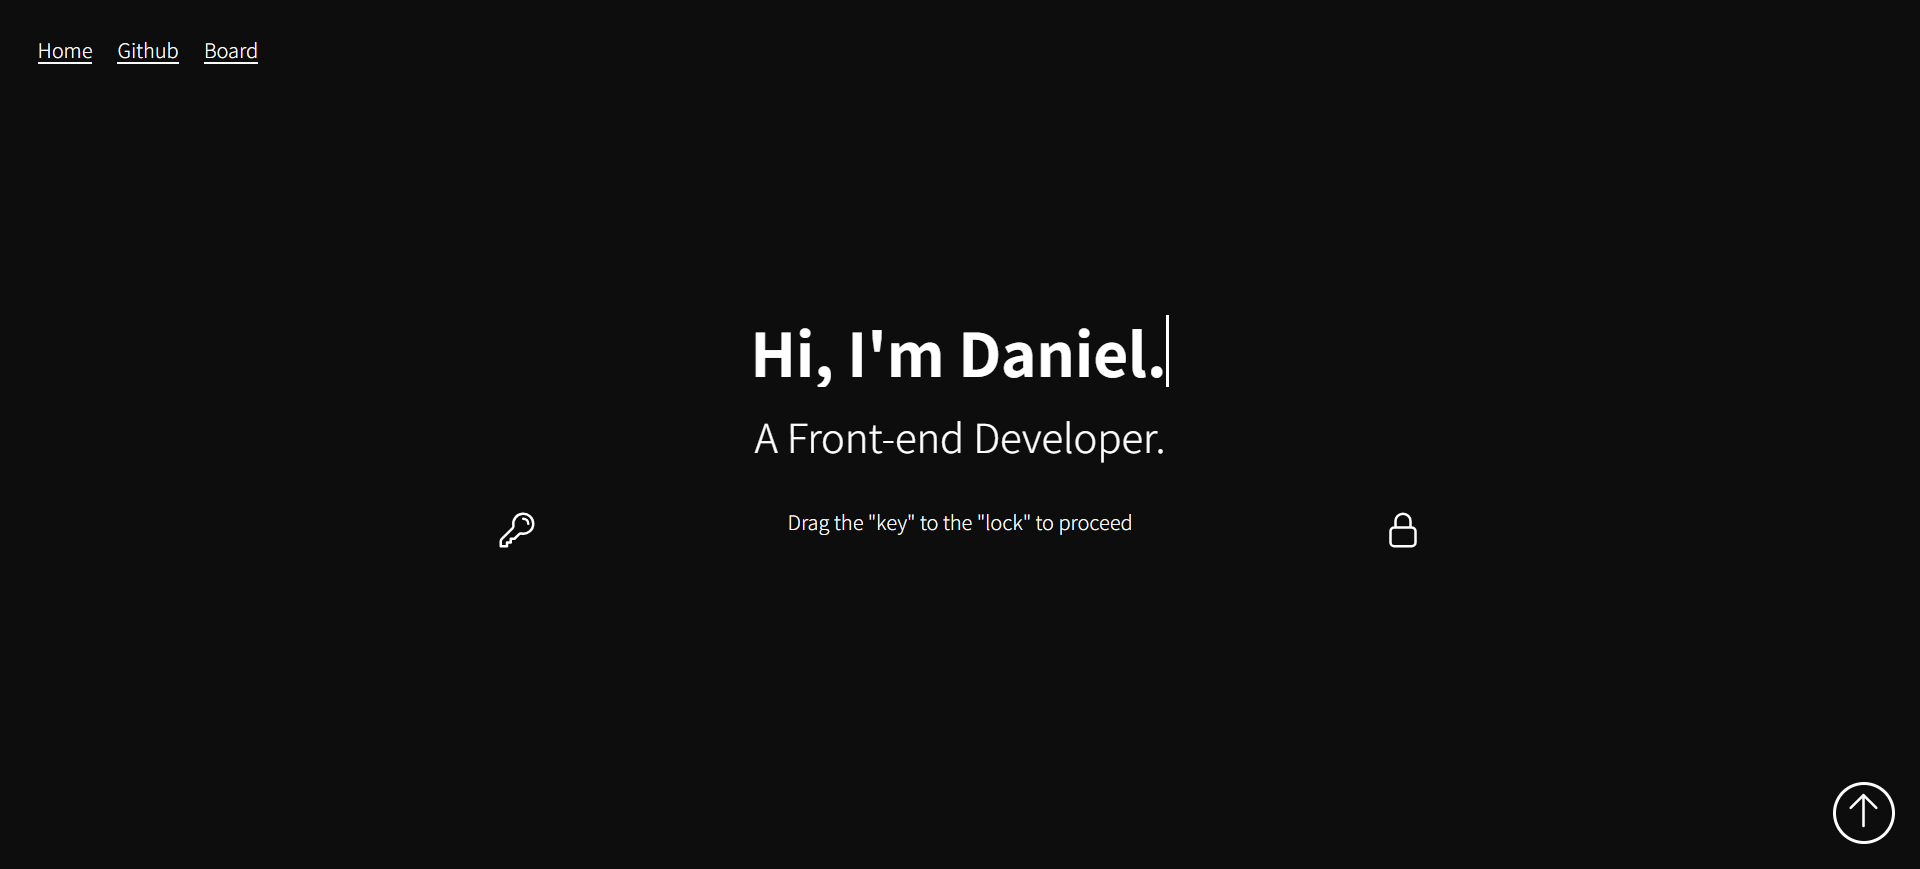
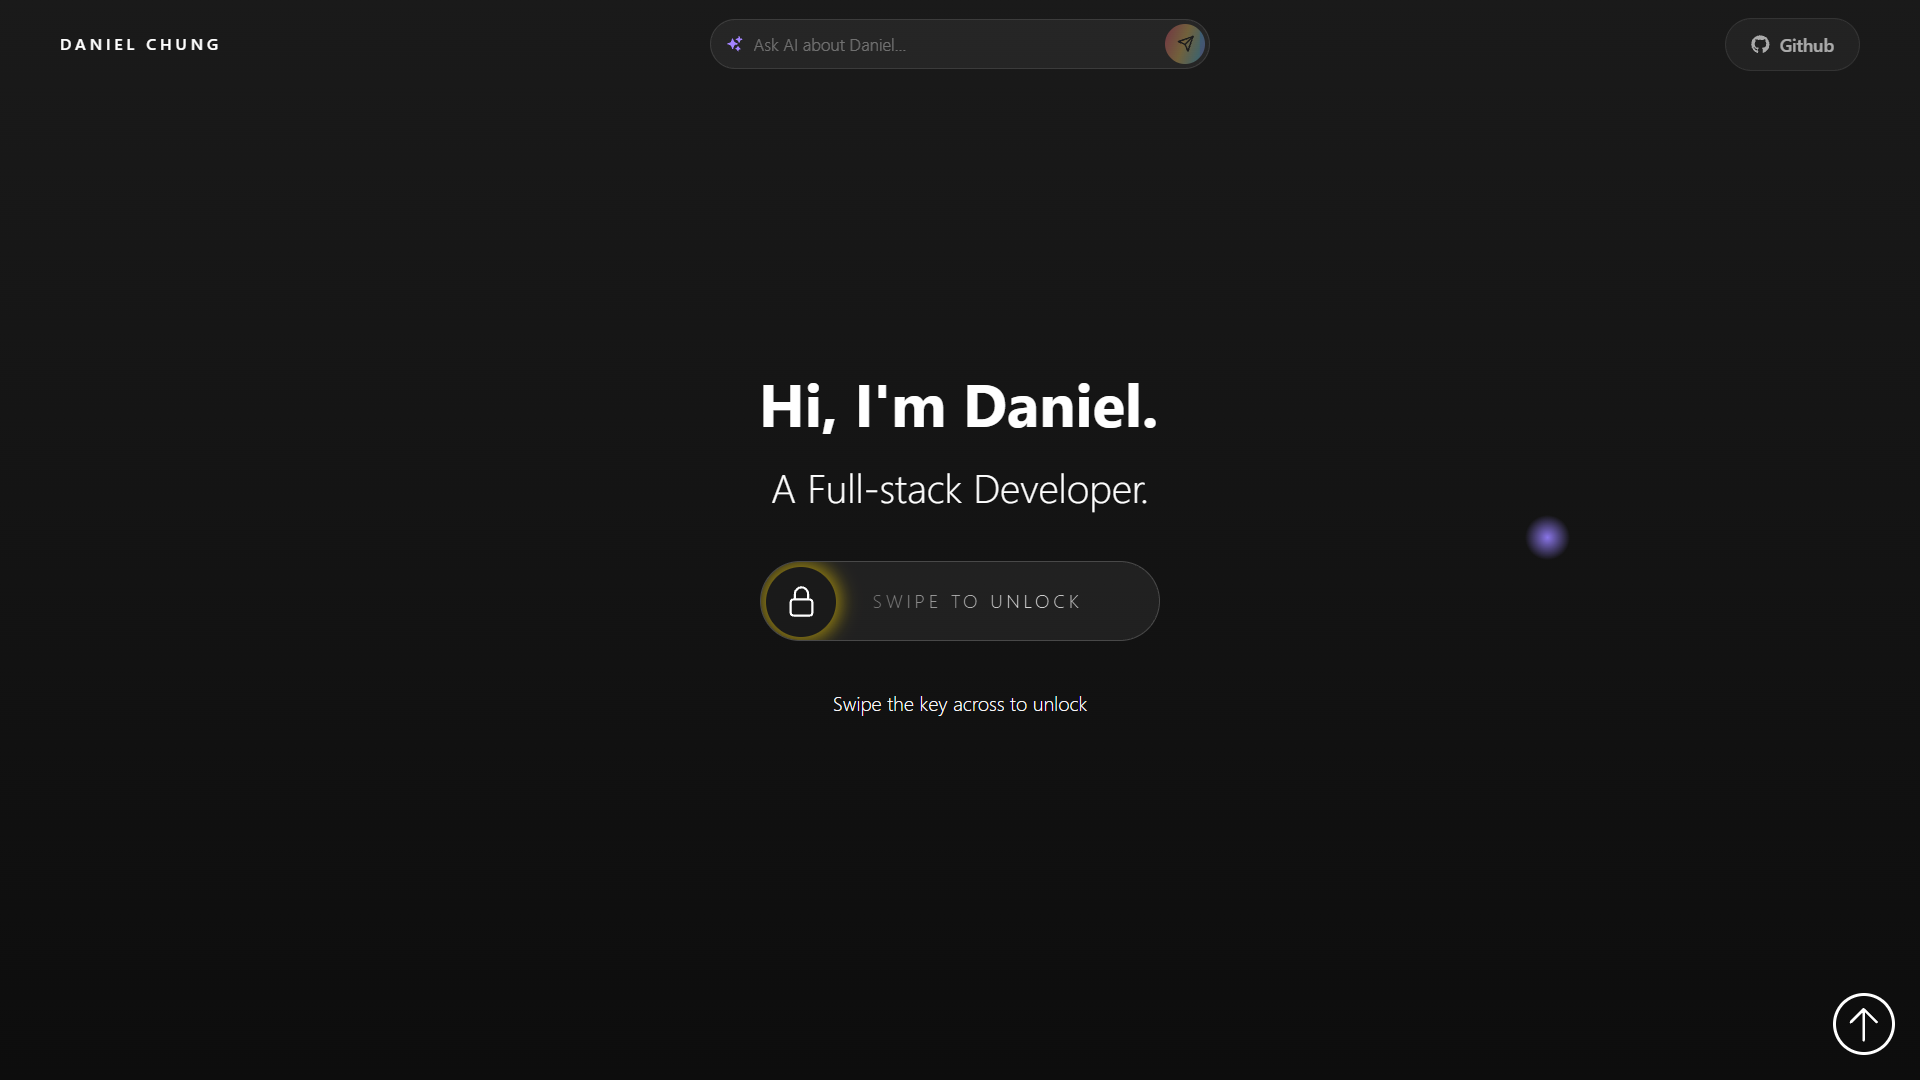
change project display method

diff --git a/src/components/Projects.tsx b/src/components/Projects.tsx
@@ -302,10 +302,74 @@ const OpenCue = styled.span`
     }
 `;
 
+/* ---------- sub-project grid ---------- */
+
+/* Sits at the end of the track as one more "card": 3 rows of 16:9 cells whose
+   total height matches a main card, so row height (and therefore cell width)
+   is derived from that height rather than measured. */
+const SubGrid = styled.div`
+    --h: min(66vh, 620px);
+    --gap: 14px;
+    --row: calc((var(--h) - 2 * var(--gap)) / 3);
+    flex: 0 0 auto;
+    display: grid;
+    grid-template-rows: repeat(3, var(--row));
+    grid-template-columns: repeat(2, calc(var(--row) * 16 / 9));
+    gap: var(--gap);
+
+    @media (max-width: 900px) {
+        --h: min(70vh, 560px);
+    }
+`;
+
+const SubCell = styled.button`
+    position: relative;
+    padding: 0;
+    overflow: hidden;
+    cursor: pointer;
+    border: 1px solid rgba(255, 255, 255, 0.65);
+    border-radius: 10px;
+    background: #121218;
+    color: white;
+    text-align: left;
+    transition:
+        border-color 0.3s ease,
+        transform 0.3s ease;
+
+    &:hover,
+    &:focus-visible {
+        border-color: white;
+        transform: translateY(-4px);
+    }
+
+    img {
+        width: 100%;
+        height: 100%;
+        object-fit: cover;
+        object-position: top center;
+        display: block;
+    }
+`;
+
+const SubLabel = styled.span`
+    position: absolute;
+    left: 0;
+    right: 0;
+    bottom: 0;
+    padding: 18px 12px 8px;
+    font-size: 0.8rem;
+    font-weight: 600;
+    background: linear-gradient(to top, rgba(0, 0, 0, 0.85), transparent);
+`;
+
 /* ---------- reduced-motion fallback ---------- */
 
 const StaticHeader = styled.div`
     padding: 60px 6vw 0;
+`;
+
+const StaticSubWrap = styled.div`
+    padding: 0 6vw 100px;
 `;
 
 const StaticGrid = styled.div`
@@ -532,8 +596,8 @@ export default function Projects() {
     const spaceRef = useRef<HTMLDivElement | null>(null);
     const trackRef = useRef<HTMLDivElement | null>(null);
 
-    /* Main and sub projects are merged into one list — the horizontal
-       track is the only section, so the old headings have nothing to divide. */
+    /* One flat list purely so the modal can address any project by index —
+       main projects render as track cards, sub projects as the trailing grid. */
     const projects = useMemo<Project[]>(
         () => [
             ...mainProjects,
@@ -595,7 +659,7 @@ export default function Projects() {
         };
     }, [activeProject]);
 
-    const cards = projects.map((project, idx) => (
+    const cards = mainProjects.map((project, idx) => (
         <ProjectCard
             key={project.title}
             project={project}
@@ -603,6 +667,27 @@ export default function Projects() {
             onOpen={() => setActiveIndex(idx)}
         />
     ));
+
+    const subGrid = (
+        <SubGrid>
+            {subProjects.map((project, idx) => (
+                <SubCell
+                    key={project.title}
+                    aria-label={`${project.title} — open details`}
+                    onClick={() => setActiveIndex(mainProjects.length + idx)}
+                >
+                    {project.sampleImg && (
+                        <img
+                            src={project.sampleImg}
+                            alt={project.title}
+                            loading='lazy'
+                        />
+                    )}
+                    <SubLabel>{project.title}</SubLabel>
+                </SubCell>
+            ))}
+        </SubGrid>
+    );
 
     return (
         <Wrapper id='projects'>
@@ -612,6 +697,7 @@ export default function Projects() {
                         <Title>Projects</Title>
                     </StaticHeader>
                     <StaticGrid>{cards}</StaticGrid>
+                    <StaticSubWrap>{subGrid}</StaticSubWrap>
                 </>
             ) : (
                 <ScrollSpace ref={spaceRef} $distance={distance}>
@@ -624,6 +710,7 @@ export default function Projects() {
                         </Header>
                         <Track ref={trackRef} style={{ x }}>
                             {cards}
+                            {subGrid}
                         </Track>
                         <ProgressRail>
                             <ProgressBar style={{ scaleX: scrollYProgress }} />

diff --git a/src/components/Footer.tsx b/src/components/Footer.tsx
@@ -26,13 +26,17 @@ const SocialIcons = styled.div`
     display: flex;
     gap: 15px;
     margin-bottom: 10px;
+`;
 
-    a {
-        color: white;
-        transition: color 0.3s ease-in-out;
-        &:hover {
-            color: #ff4500; /* Netflix-like red */
-        }
+/* Each link hovers to its own brand colour. Instagram's identity is a
+   gradient, so it takes the pink its logo resolves to at one stop. */
+const Social = styled.a<{ $brand: string }>`
+    color: white;
+    display: inline-flex;
+    transition: color 0.3s ease-in-out;
+
+    &:hover {
+        color: ${(props) => props.$brand};
     }
 `;
 
@@ -108,27 +112,38 @@ function Footer() {
             </FadeInText>
             <FooterContent>
                 <SocialIcons>
-                    <a
+                    <Social
                         href='https://www.facebook.com/daniel.chung.7509836/'
                         target='_blank'
+                        $brand='#1877f2'
+                        aria-label='Facebook'
                     >
                         <FaFacebook size={20} />
-                    </a>
-                    <a href='https://github.com/danielhc0228' target='_blank'>
+                    </Social>
+                    <Social
+                        href='https://github.com/danielhc0228'
+                        target='_blank'
+                        $brand='#8b949e'
+                        aria-label='GitHub'
+                    >
                         <FaGithub size={20} />
-                    </a>
-                    <a
+                    </Social>
+                    <Social
                         href='https://www.instagram.com/danielchung2802/'
                         target='_blank'
+                        $brand='#e1306c'
+                        aria-label='Instagram'
                     >
                         <FaInstagram size={20} />
-                    </a>
-                    <a
+                    </Social>
+                    <Social
                         href='https://www.linkedin.com/in/daniel-chung-83451522b/'
                         target='_blank'
+                        $brand='#0a66c2'
+                        aria-label='LinkedIn'
                     >
                         <FaLinkedin size={20} />
-                    </a>
+                    </Social>
                 </SocialIcons>
 
                 <FooterLinks>

diff --git a/src/components/Me.tsx b/src/components/Me.tsx
@@ -827,6 +827,9 @@ export default function Me() {
             <SectionTitle ref={titleRef} $isVisible={isImageVisible}>
                 <span>Tech Stack</span>
             </SectionTitle>
+            <FlipHint $hidden={!!selectedSkillData}>
+                Hold icons and play around with it
+            </FlipHint>
             {/* Grid and panel are alternates in the same slot: picking a skill
                 clears the icons and the panel takes their place. */}
             <SwapArea
